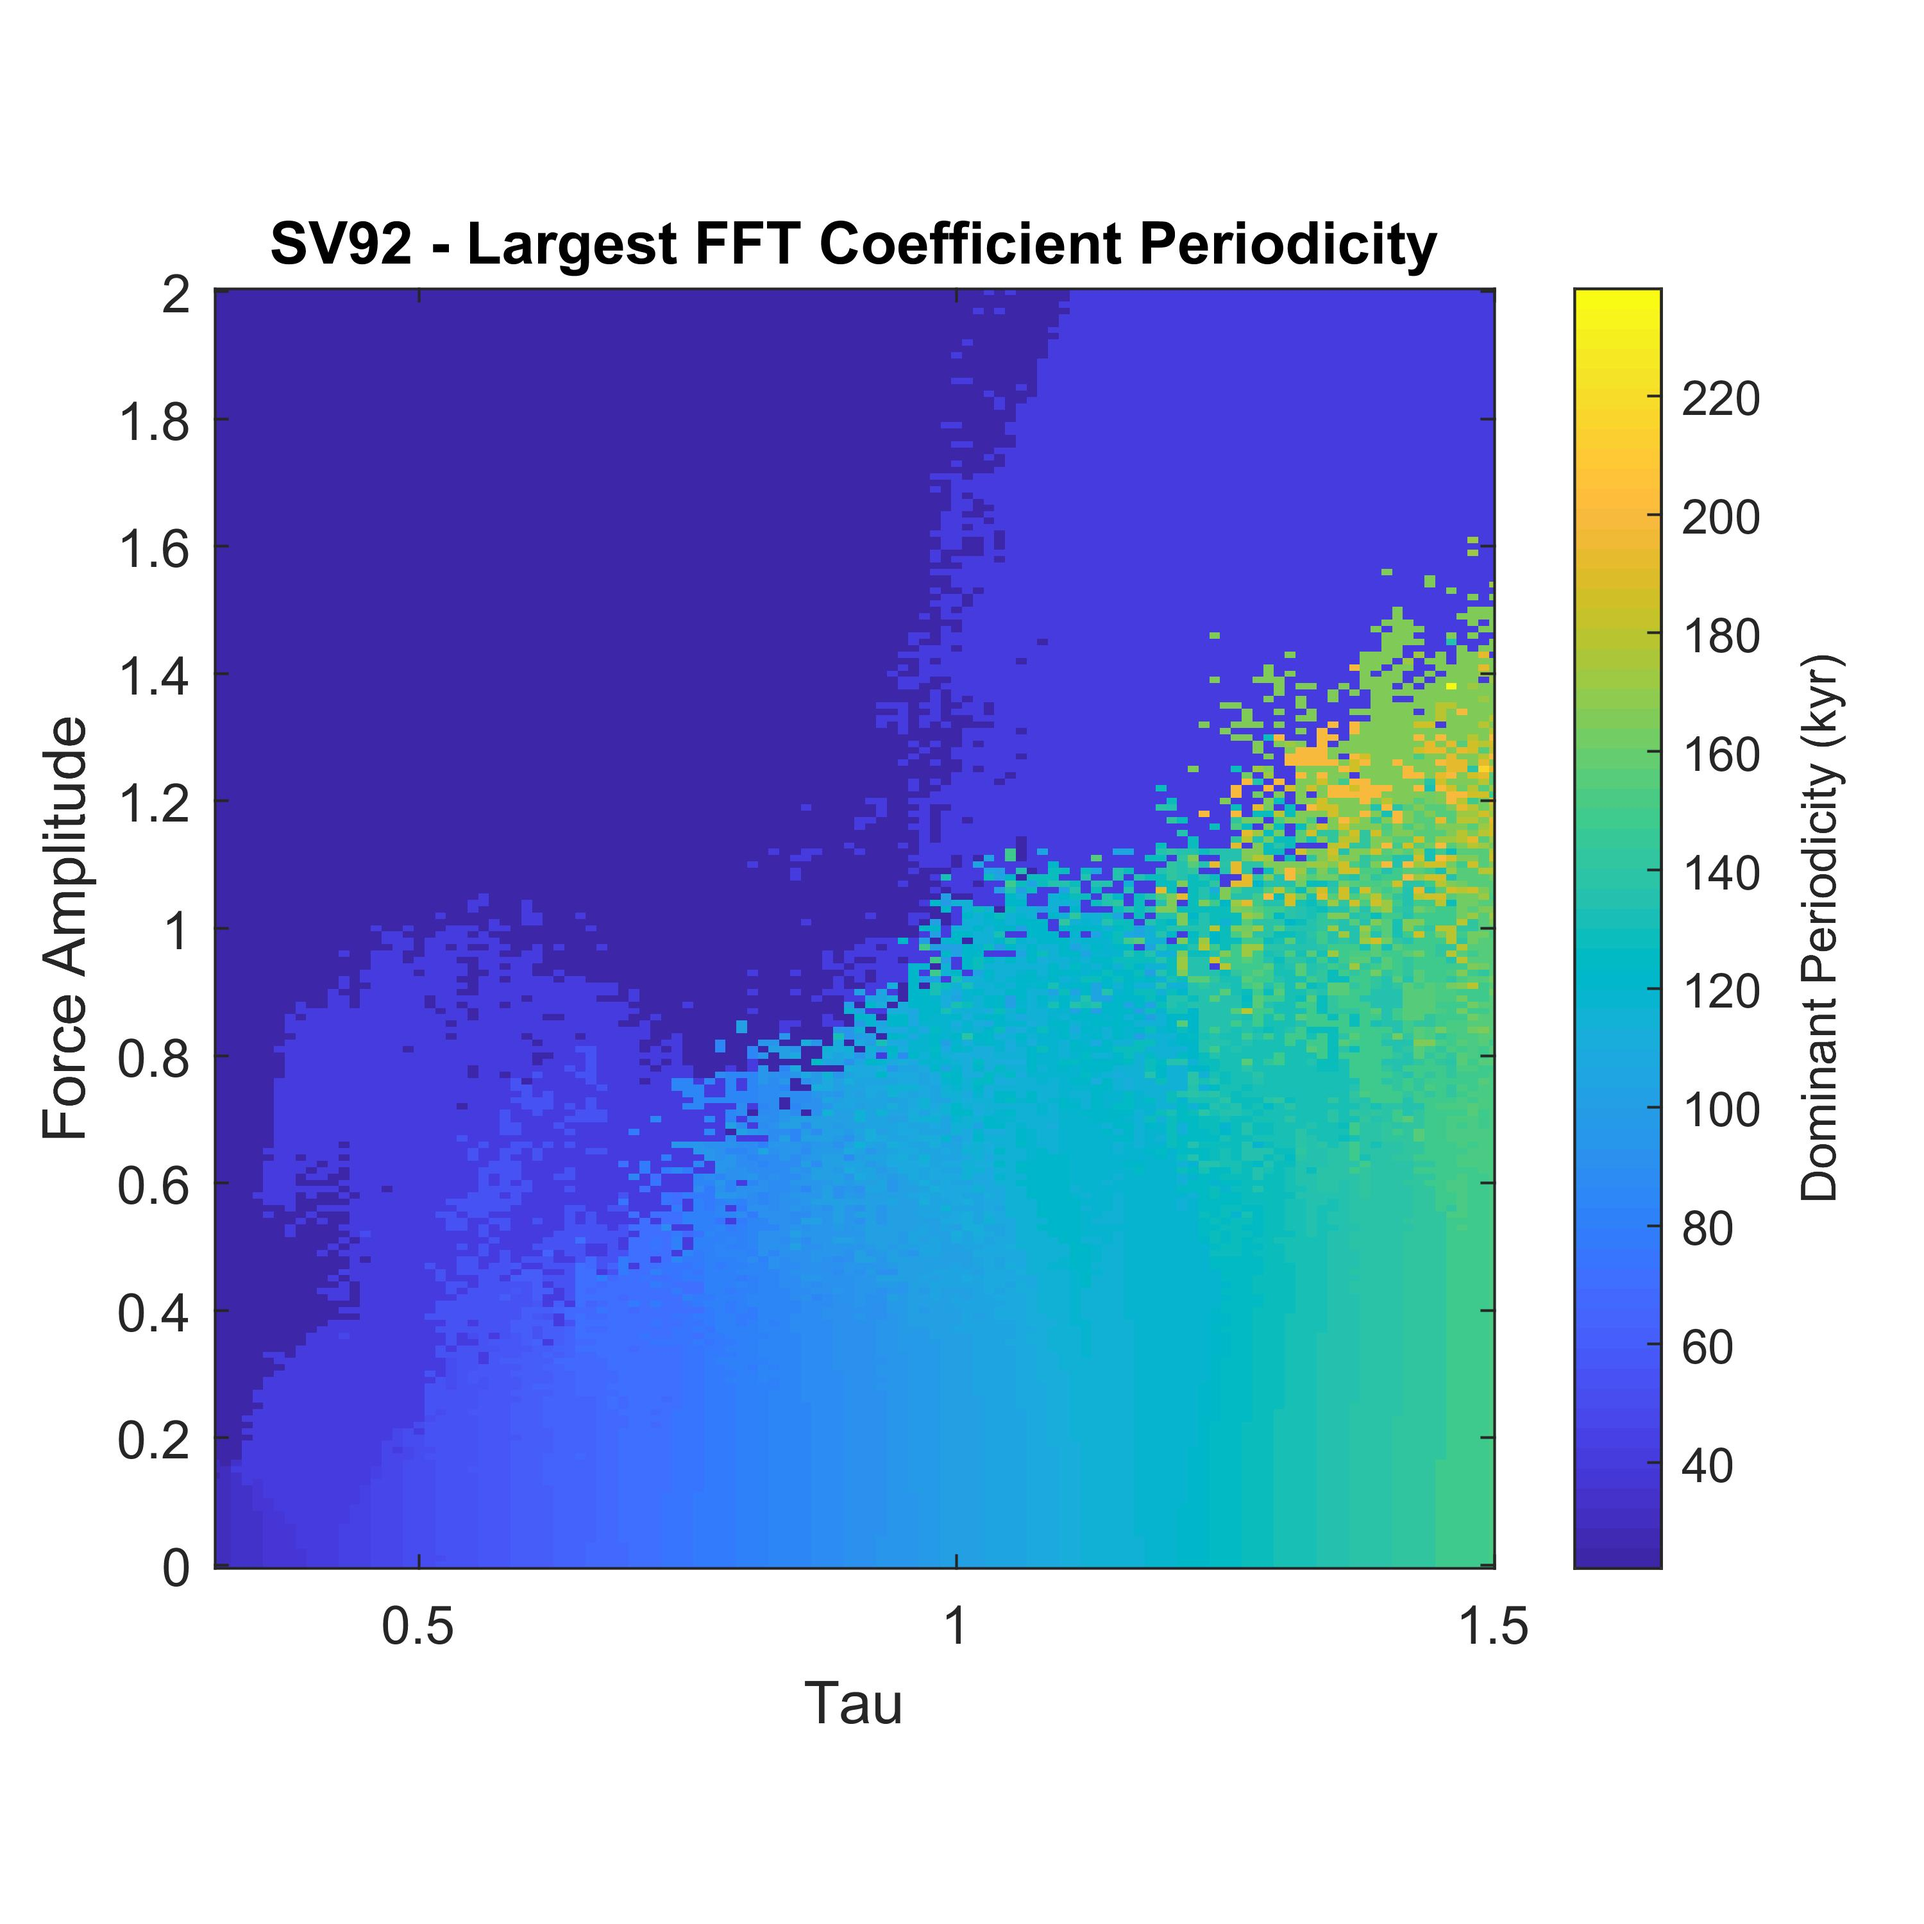
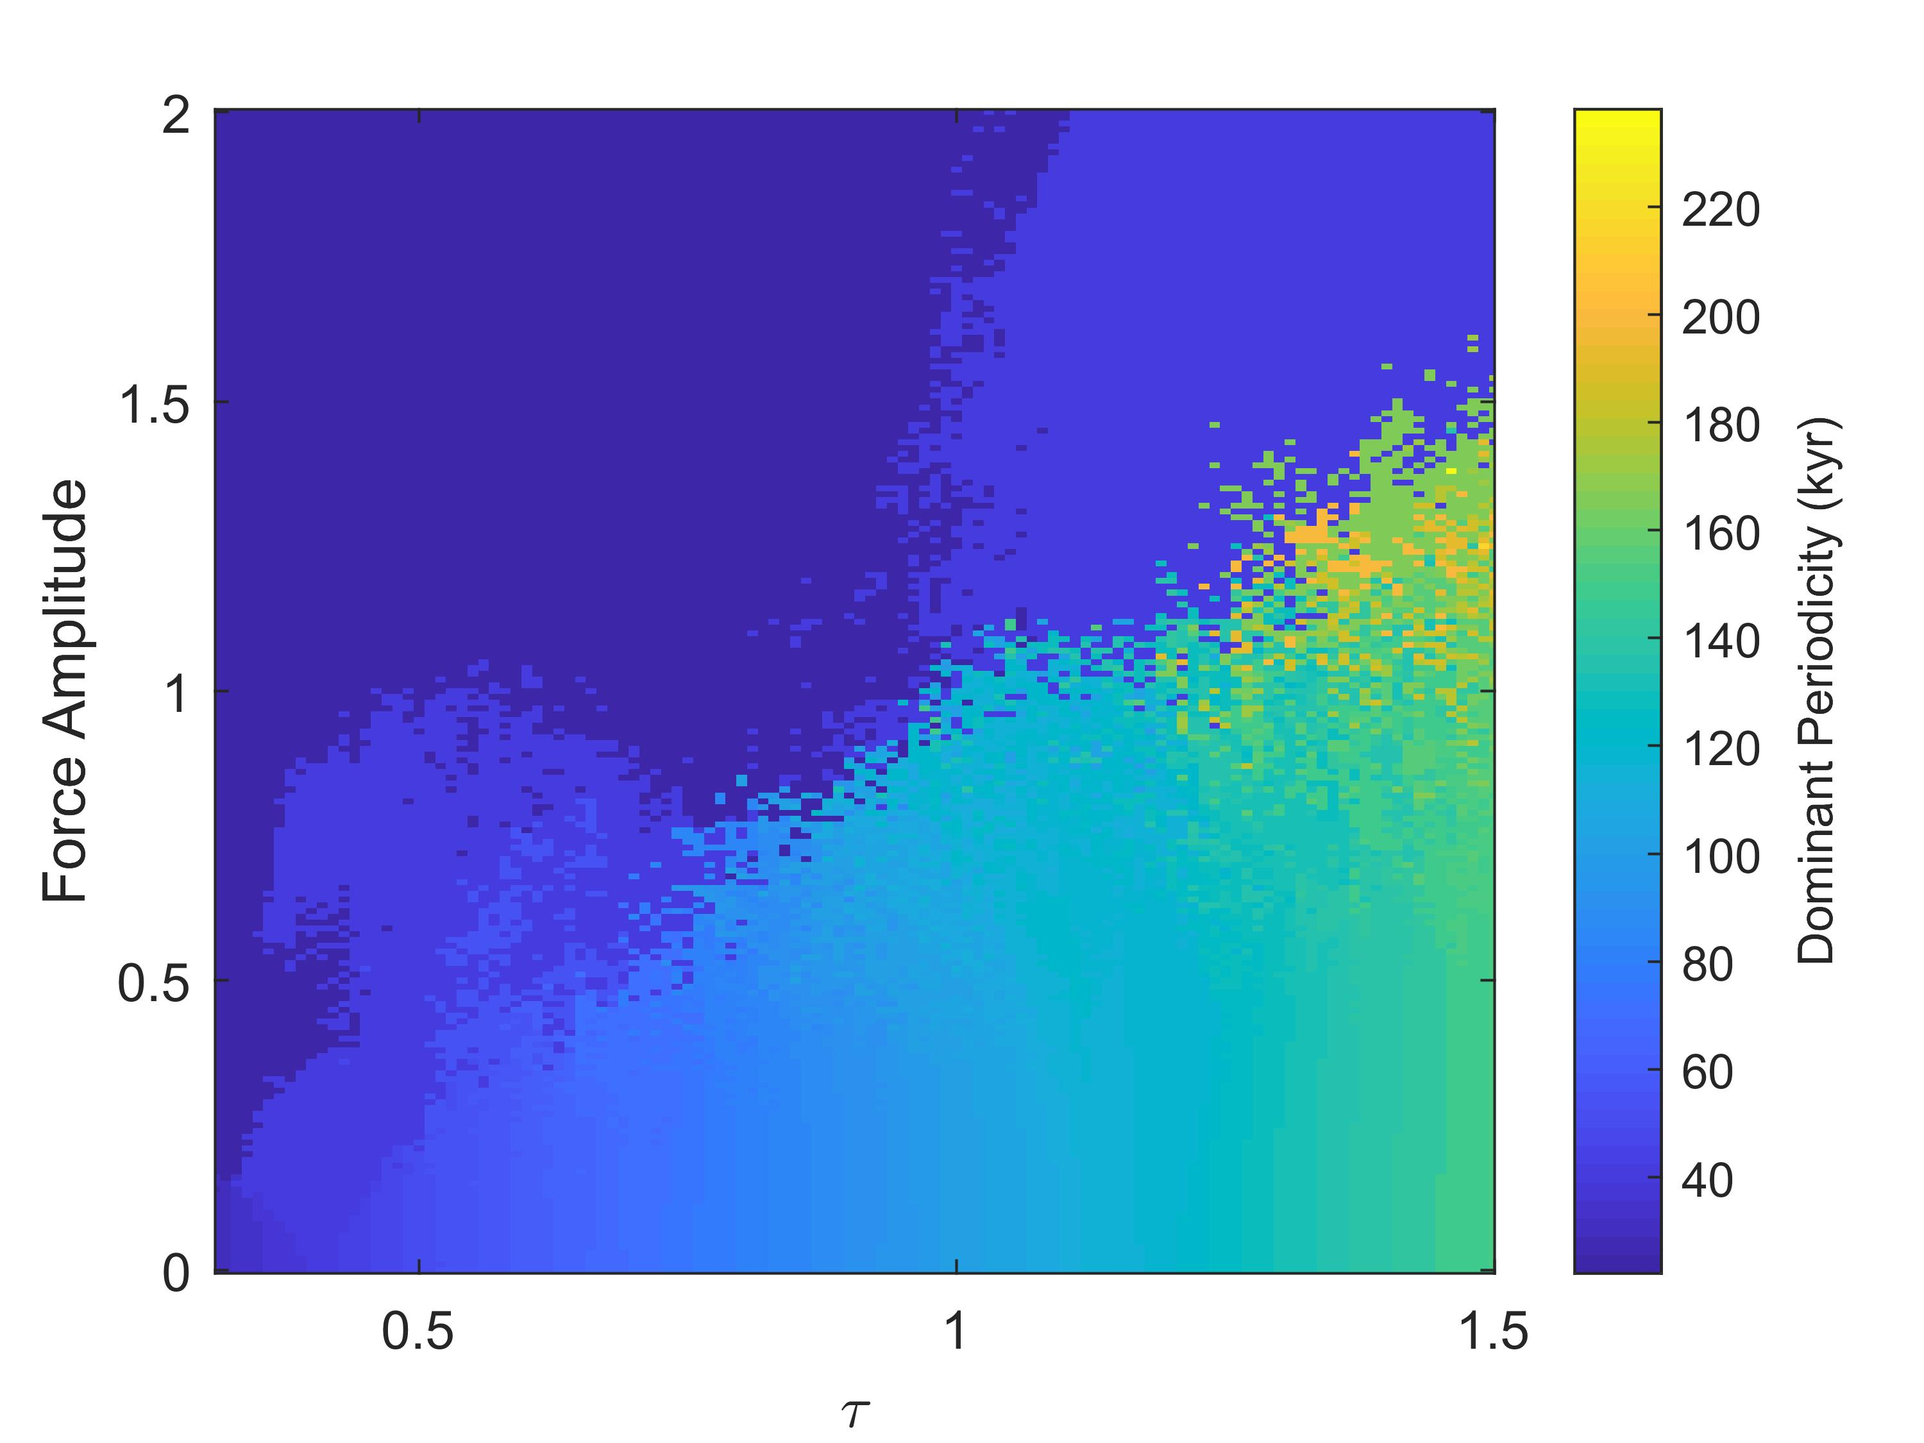
goodstuff

diff --git a/pssilvei/sv92taugridrunsreadfftmaxindex.m b/pssilvei/sv92taugridrunsreadfftmaxindex.m
@@ -21,10 +21,12 @@ set(gca, 'ydir','normal')
 xlim([0.31 1.5])
 colors = colorbar;
 colors.Label.String = 'Dominant Periodicity (kyr)'
-title('SV92 - Largest FFT Coefficient Periodicity')
+%title('SV92 - Largest FFT Coefficient Periodicity')
+title('')
 ylabel('Force Amplitude')
-xlabel('Tau')
-pbaspect([1 1 1])
+xlabel('\tau')
+set(gcf,'color','w');
+pbaspect('auto')
 
 % figure
 % surf(5000000./cycleaves);
